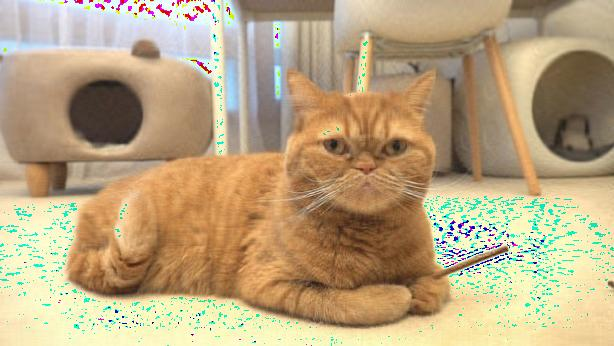
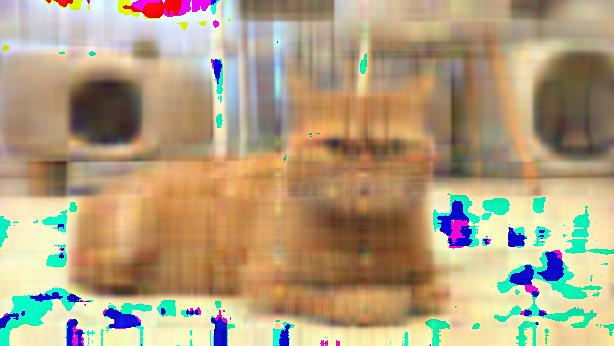
add huffman, svd manual masih error

diff --git a/matrixUtil.py b/matrixUtil.py
@@ -1,6 +1,7 @@
 import numpy as np
 from scipy import linalg
 from sympy import symbols, Eq, solve, solve_linear_system, Matrix
+from imgUtil import img_to_rgb
 
 def transpose(matrix):
     result = [[matrix[j][i] for j in range(len(matrix))] for i in range(len(matrix[0]))]
@@ -48,50 +49,21 @@ def subtract(matrix1, matrix2):
     return mat
 
 def eigenvalue(matrix):
-    x = symbols('x')
-    lambda_matrix = [[0 for j in range(len(matrix[0]))] for i in range(len(matrix))]
-    for i in range(len(matrix)):
-        lambda_matrix[i][i] = x
-    mat = subtract(matrix, lambda_matrix)
-    eq1 = Eq(determinant(mat), 0)
-    sol = solve(eq1)
-    return sol
+    m = np.array(matrix)
+    w, v = np.linalg.eig(m)
+    w = w.tolist()
+    rounded = [round(num, 2) for num in w]
+    return rounded
 
 def eigenvectors(matrix):
-    eigenvectors = []
-    eigenval = eigenvalue(matrix)
-    lambda_matrix = [[0 for j in range(len(matrix[0]))] for i in range(len(matrix))]
-
-    # nil_matrix = [0 for i in range(len(matrix))]
-    for val in eigenval:
-        for k in range(len(matrix)):
-            lambda_matrix[k][k] = val       
-            res_matrix = subtract(matrix, lambda_matrix)
-        for row in range(len(res_matrix)):
-            res_matrix[row].append(0)
-        system = Matrix(res_matrix)
-
-        x,y,z = symbols('x y z')
-        vector = solve_linear_system(system, x, y, z)
-        eigenvectors.append(vector)
-    return eigenvectors
-
-# def eigenvalue(matrix):
-#     m = np.array(matrix)
-#     w, v = np.linalg.eig(m)
-#     w = w.tolist()
-#     rounded = [round(num, 2) for num in w]
-#     return rounded
-
-# def eigenvectors(matrix):
-#     m = np.array(matrix)
-#     w, v = np.linalg.eig(m)
-#     v = v.tolist()
-#     rounded = [[0 for j in range(len(v[0]))] for i in range(len(v))]
-#     for i in range(len(v)):
-#         for j in range(len(v[0])):
-#             rounded[i][j] = round(v[i][j], 2)
-#     return rounded
+    m = np.array(matrix)
+    w, v = np.linalg.eig(m)
+    v = v.tolist()
+    rounded = [[0 for j in range(len(v[0]))] for i in range(len(v))]
+    for i in range(len(v)):
+        for j in range(len(v[0])):
+            rounded[i][j] = round(v[i][j], 2)
+    return rounded
 
 def sigmavalue(matrix):
     sigma_val = []
@@ -102,31 +74,28 @@ def sigmavalue(matrix):
     return sigma_val
 
 def sigma_matrix(matrix):
-    ata = multiply(transpose(matrix), matrix)
+    ata = multiply(matrix, transpose(matrix))
     sigma_val = sigmavalue(ata)
-    row = len(matrix)
-    col = len(matrix[0])
-    mat = [[0 for j in range(col)] for i in range(row)]
-
-    for i in range(len(sigma_val)):
-        mat[i][i] = round(sigma_val[i], 2)
-    return mat
+    s = np.round(sigma_val, decimals=5)
+    return s 
 
 def vtrans_matrix(matrix):
     ata = multiply(transpose(matrix), matrix)
-    return eigenvectors(ata)
+    vt = transpose(eigenvectors(ata))
+    vt = np.array(vt)
+    for i in range(len(vt)):
+        norm = np.linalg.norm(vt[i])
+        vt[i] = vt[i]/norm
+    return np.round(vt, decimals=5)
 
 def u_matrix(matrix):
-    mat = []
     aat = multiply(matrix, transpose(matrix))
-    sigma_val = sigmavalue(aat)
-    for i in range(len(sigma_val)):
-        multiplyres = np.array(matrix).dot(np.array(vtrans_matrix(matrix)[i])).tolist()
-        k = 1/sigma_val[i]
-        u_mat = arrscalarProduct(multiplyres, k)
-        rounded = [round(num, 2) for num in u_mat]
-        mat.append(rounded)
-    return mat
+    u = eigenvectors(aat)
+    u = np.array(u)
+    for i in range(len(u)):
+        norm = np.linalg.norm(u[i])
+        u[i] = u[i]/norm
+    return np.round(u, decimals=5)
 
 def svd_matrix(matrix):
     u, sigma, vt = np.linalg.svd(matrix)
@@ -139,22 +108,28 @@ def compress_matrix(matrix, rank):
     res_matrix = comp_matrix.astype('uint8')
     return res_matrix
 
+def test_matrix(matrix, rank):
+    u = u_matrix(matrix)
+    s = sigma_matrix(matrix)
+    vt = vtrans_matrix(matrix)
+    leftSide = np.matmul(u[:, 0:rank], np.diag(s)[0:rank, 0:rank])
+    comp_matrix = np.matmul(leftSide, vt[0:rank, :])
+    res_matrix = comp_matrix.astype('uint8')
+    return res_matrix
+
+filename = 'in/momo.jpg'
+red, green, blue = img_to_rgb(filename)
 matrix1 = [[3,1,1], [-1,3,1]]
-aat = multiply(matrix1, transpose(matrix1))
-# print(eigenvalue(aat))
-# print(eigenvectors(aat))
-# print(vtrans_matrix(matrix1))
-# print(u_matrix(matrix1))
-# print(sigma_matrix(matrix1)) 
-# u, s, v = svd_matrix(matrix1)
+# aat = multiply(matrix1, transpose(matrix1))
+# ata = multiply(transpose(matrix1), matrix1)
+u, s, v = svd_matrix(red)
+u_man = u_matrix(red)
+s_man = sigma_matrix(red)
+v_man = vtrans_matrix(red)
 
-# mat = np.dot(u*s, v)
-# print(mat)
-# mat = multiply(u_matrix(matrix1), sigma_matrix(matrix1))
-# print(multiply(mat, vtrans_matrix(matrix1)))
-
-
-# a = np.array([[5, 3, 0], [3, 5, 0], [0, 0, 0]])
-# b = np.array([0, 0, 0])
-# x = np.linalg.solve(a, b)
-# print(x)
+print(u)
+print(u_man)
+print(s)
+print(s_man)
+print(v)
+print(v_man)

diff --git a/huffman.py b/huffman.py
@@ -1,0 +1,108 @@
+from imgUtil import img_to_rgb, write_img, merge_rgb
+import numpy as np
+import queue
+from PIL import Image
+
+class Node:
+	def __init__(self):
+		self.prob = None
+		self.code = None
+		self.data = None
+		self.left = None
+		self.right = None 	# the color (the bin value) is only required in the leaves
+	def __lt__(self, other):
+		if (self.prob < other.prob):		# define rich comparison methods for sorting in the priority queue
+			return 1
+		else:
+			return 0
+	def __ge__(self, other):
+		if (self.prob > other.prob):
+			return 1
+		else:
+			return 0
+
+def tree(probabilities):
+	prq = queue.PriorityQueue()
+	for color,probability in enumerate(probabilities):
+		leaf = Node()
+		leaf.data = color
+		leaf.prob = probability
+		prq.put(leaf)
+
+	while (prq.qsize()>1):
+		newnode = Node()		# create new node
+		l = prq.get()
+		r = prq.get()			# get the smalles probs in the leaves
+						# remove the smallest two leaves
+		newnode.left = l 		# left is smaller
+		newnode.right = r
+		newprob = l.prob+r.prob	# the new prob in the new node must be the sum of the other two
+		newnode.prob = newprob
+		prq.put(newnode)	# new node is inserted as a leaf, replacing the other two 
+	return prq.get()		# return the root node - tree is complete
+
+def huffman_traversal(root_node,tmp_array,f):		# traversal of the tree to generate codes
+	if (root_node.left is not None):
+		tmp_array[huffman_traversal.count] = 1
+		huffman_traversal.count+=1
+		huffman_traversal(root_node.left,tmp_array,f)
+		huffman_traversal.count-=1
+	if (root_node.right is not None):
+		tmp_array[huffman_traversal.count] = 0
+		huffman_traversal.count+=1
+		huffman_traversal(root_node.right,tmp_array,f)
+		huffman_traversal.count-=1
+	else:
+    	#count the number of bits for each color
+		bitstream = ''.join(str(cell) for cell in tmp_array[1:huffman_traversal.count]) 
+		f[root_node.data] = int(bitstream)
+
+def getHuffmanDict(imgmat):
+    hist = np.bincount(imgmat.ravel(),minlength=256)
+
+    probabilities = hist/np.sum(hist)		# a priori probabilities from frequencies
+
+    root_node = tree(probabilities)			# create the tree using the probs.
+    tmp_array = np.ones([64],dtype=int)
+    huffman_traversal.count = 0
+    f = {}
+    huffman_traversal(root_node,tmp_array,f)
+    return f
+
+def inversedict(dictionary):
+    inv = {v: k for k, v in dictionary.items()}
+    return inv
+
+def encodemat(mat, code):
+    encoded = [['  ' for j in range(len(mat[0]))] for i in range(len(mat))]
+    for i in range(len(mat)):
+        for j in range(len(mat[0])):
+            a = str(code[mat[i][j]])
+            encoded[i][j] = a
+            # print(encoded[i][j])
+    encoded = np.array(encoded)
+    return(encoded.astype('int64'))
+
+def decodemat(mat, code):
+    code = inversedict(code)
+    decoded = [[0 for j in range(len(mat[0]))] for i in range(len(mat))]
+    for i in range(len(mat)):
+        for j in range(len(mat[0])):
+            decoded[i][j] = code[mat[i][j]]
+            # print(encoded[i][j])
+    decoded = np.array(decoded)
+    return(decoded)
+
+def huffmancompression(input, output):
+    red, green, blue = img_to_rgb(input)
+
+    encoded_red = encodemat(red, getHuffmanDict(red))
+    encoded_green = encodemat(green, getHuffmanDict(green))
+    encoded_blue = encodemat(blue, getHuffmanDict(blue))
+
+    decoded_red = decodemat(encoded_red, getHuffmanDict(red))
+    decoded_green = decodemat(encoded_green, getHuffmanDict(green))
+    decoded_blue = decodemat(encoded_blue, getHuffmanDict(blue))
+
+    img = merge_rgb(decoded_red, decoded_green, decoded_blue)
+    write_img(img, output)

diff --git a/imgUtil.py b/imgUtil.py
@@ -2,7 +2,7 @@ import cv2
 import numpy as np
 import os
 from PIL import Image
-from matrixUtil import compress_matrix
+# from matrixUtil import compress_matrix, test_matrix
 
 filename = 'in/momo.jpg'
 
@@ -14,11 +14,25 @@ def img_to_rgb(filename):
 
     return red_matrix, green_matrix, blue_matrix
 
+# def compress_img(filename, rank):
+#     red, green, blue = img_to_rgb(filename)
+#     comp_red = Image.fromarray(compress_matrix(red, rank))
+#     comp_green = Image.fromarray(compress_matrix(green, rank))
+#     comp_blue = Image.fromarray(compress_matrix(blue, rank))
+#     return Image.merge("RGB",(comp_red, comp_green, comp_blue))
+
 def compress_img(filename, rank):
     red, green, blue = img_to_rgb(filename)
-    comp_red = Image.fromarray(compress_matrix(red, rank))
-    comp_green = Image.fromarray(compress_matrix(green, rank))
-    comp_blue = Image.fromarray(compress_matrix(blue, rank))
+    comp_red = Image.fromarray(test_matrix(red, rank))
+    print(comp_red)
+    comp_green = Image.fromarray(test_matrix(green, rank))
+    comp_blue = Image.fromarray(test_matrix(blue, rank))
+    return Image.merge("RGB",(comp_red, comp_green, comp_blue))
+
+def merge_rgb(red, green, blue):
+    comp_red = Image.fromarray(red).convert('L')
+    comp_green = Image.fromarray(green).convert('L')
+    comp_blue = Image.fromarray(blue).convert('L')
     return Image.merge("RGB",(comp_red, comp_green, comp_blue))
 
 def write_img(image, filename):
@@ -32,8 +46,9 @@ def sizecompression_pct(original_path, compressed_path):
     return 100*get_imgsize(compressed_path)/get_imgsize(original_path)
 
 # display_image(filename)
+
 # const_matrix = compress_img(filename, 10)
-# write_img(const_matrix, 'momo')
+# write_img(const_matrix, 'momo.jpg')
 # print(sizecompression_pct(filename, "out/momo.jpg"))
 # red, green, blue = img_to_rgb(filename)
 # print(red)

diff --git a/main.py b/main.py
@@ -1,5 +1,6 @@
 from imgUtil import compress_img, write_img, sizecompression_pct
 from time import time
+from huffman import huffmancompression
 # from matrixUtil import 
 
 print("---- IMAGE COMPRESSION ----")
@@ -12,21 +13,22 @@ print()
 
 filename = input(("Masukkan nama file gambar pada folder in yang ingin kamu kompres (tuliskan ekstensi juga): "))
 inputfile = 'in/'+filename
-print()
-output = 'out/'+filename
+output = input(("Masukkan nama file gambar hasil kompresi (tuliskan ekstensi juga): "))
+outputfile = 'out/'+filename
 
-rank = int(input("Masukkan nominal singular value/rank : "))
-print()
-
-start = time()
 if method == 1:
+    rank = int(input("Masukkan nominal singular value/rank : "))
+    print()
+    start = time()
     const_matrix = compress_img(inputfile, rank)
-    write_img(const_matrix, filename)
+    write_img(const_matrix, output)
     exectime = time() - start
-    print("Kompresi gambar berhasil!")
-    print("Waktu eksekusi program: " + str(round(exectime, 3)) + " detik")
-    print("Persentase ukuran memori gambar yang dikompresi terhadap gambar original: " + str(round(sizecompression_pct(inputfile, output), 2)) + "%")
 
 else:
-    end = time()
-    print
+    start = time()
+    huffmancompression(inputfile, output)
+    exectime = time() - start
+
+print("Kompresi gambar berhasil!")
+print("Waktu eksekusi program: " + str(round(exectime, 3)) + " detik")
+print("Persentase ukuran memori gambar yang dikompresi terhadap gambar original: " + str(round(sizecompression_pct(inputfile, outputfile), 2)) + "%")
